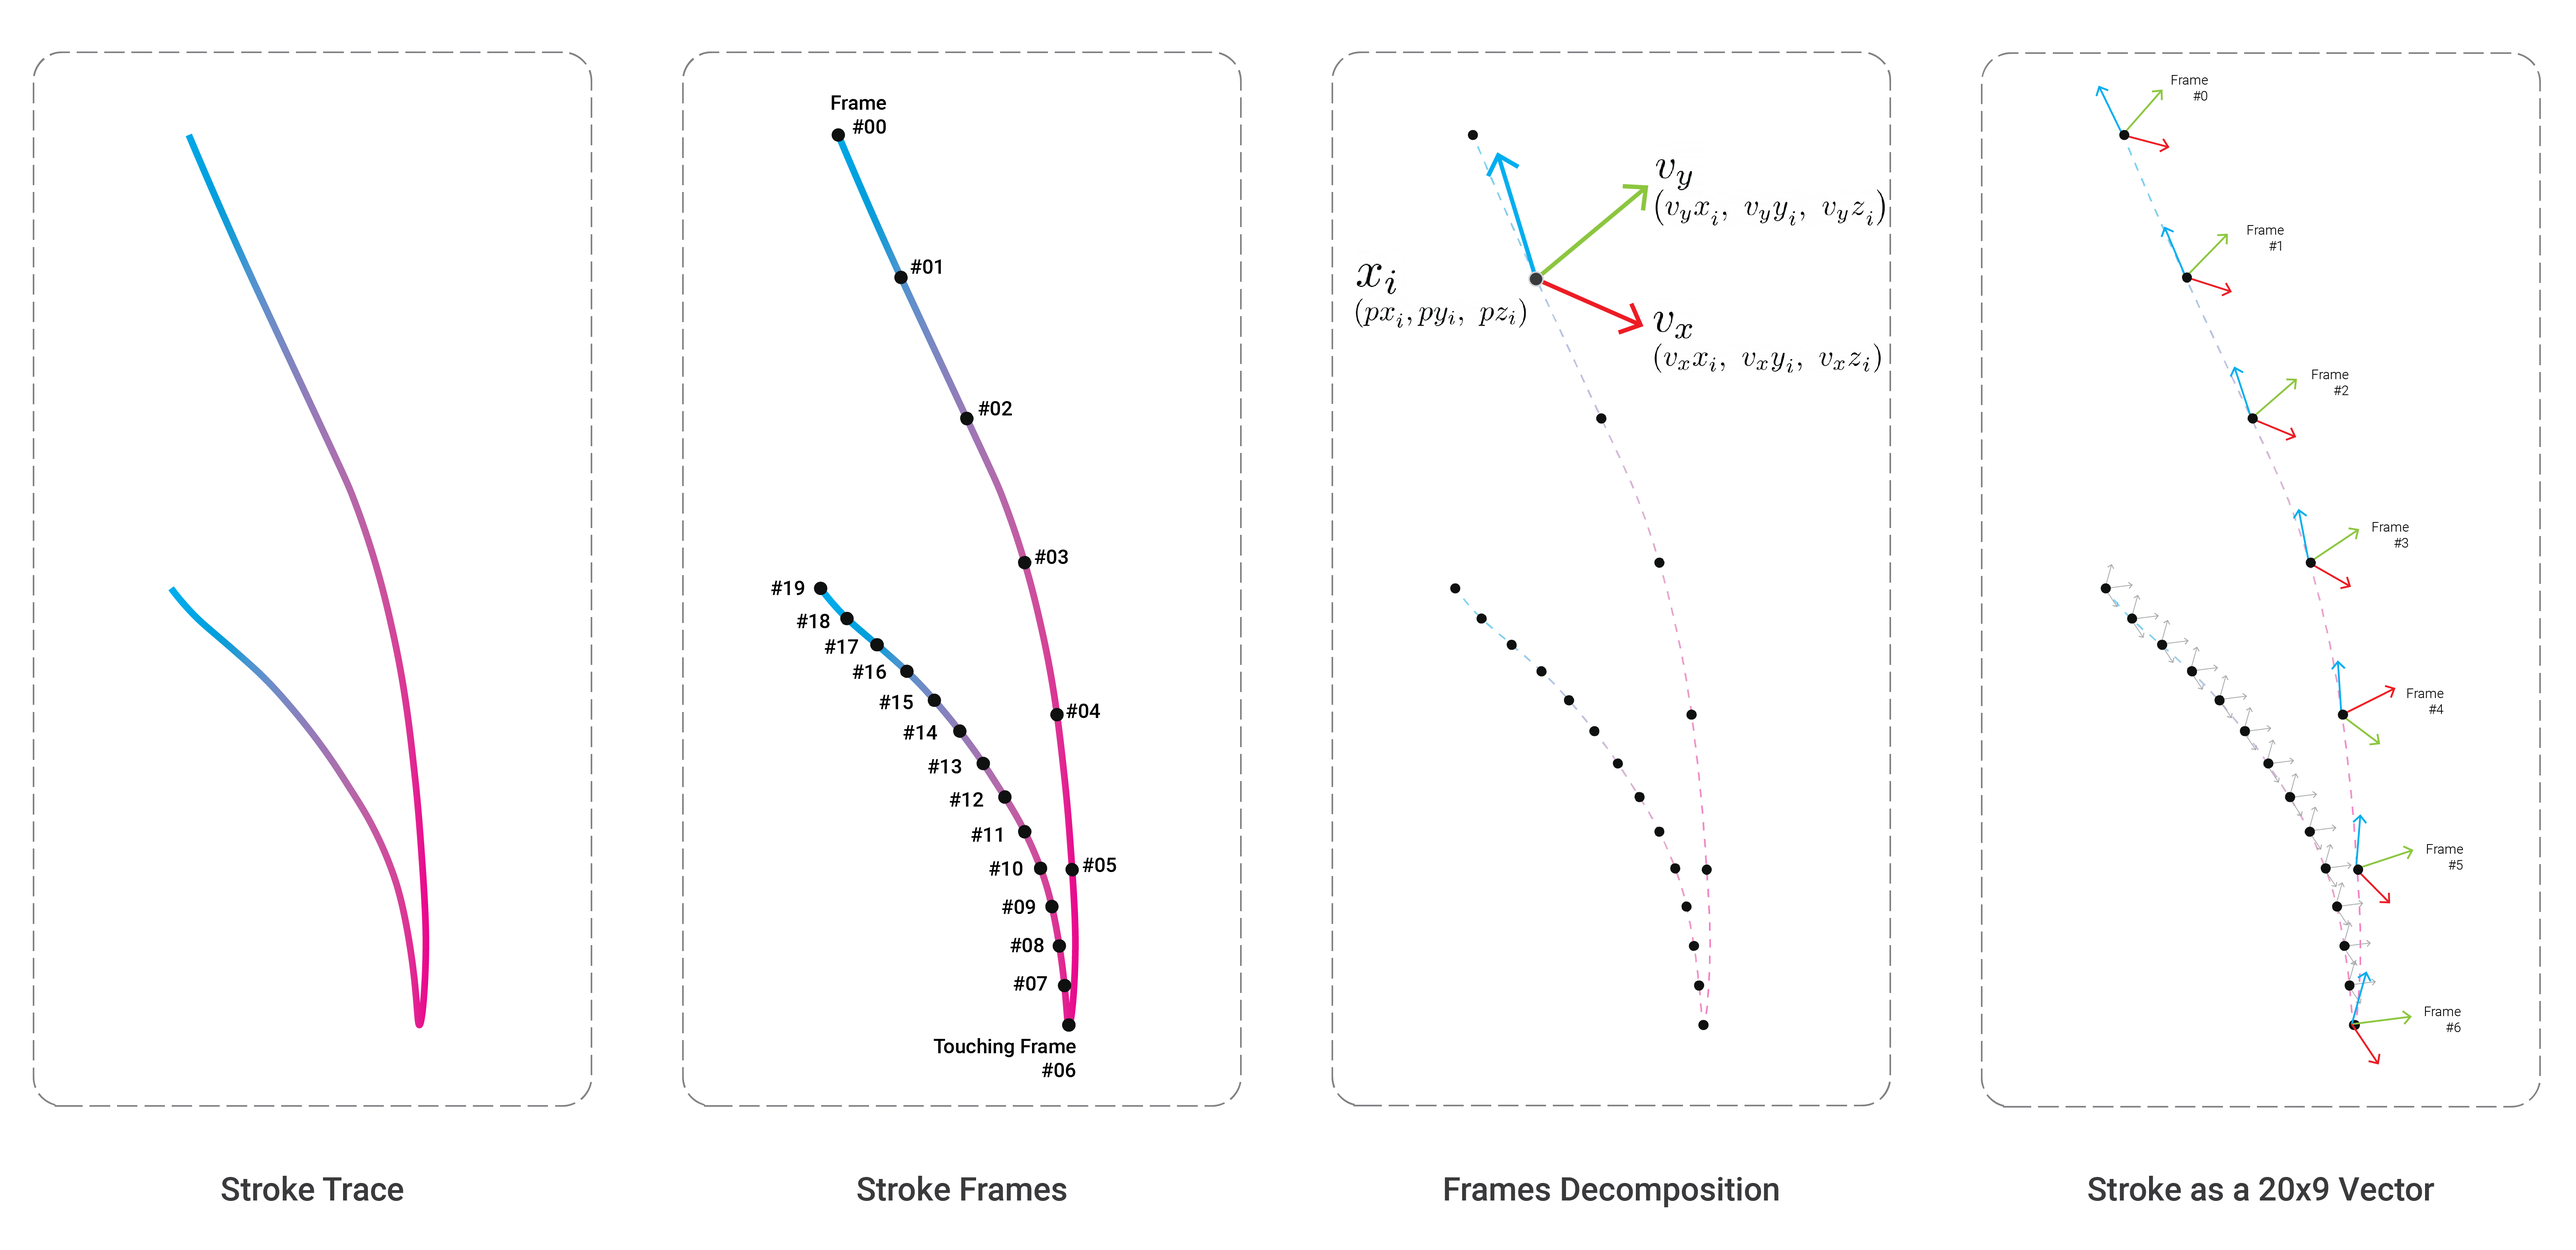
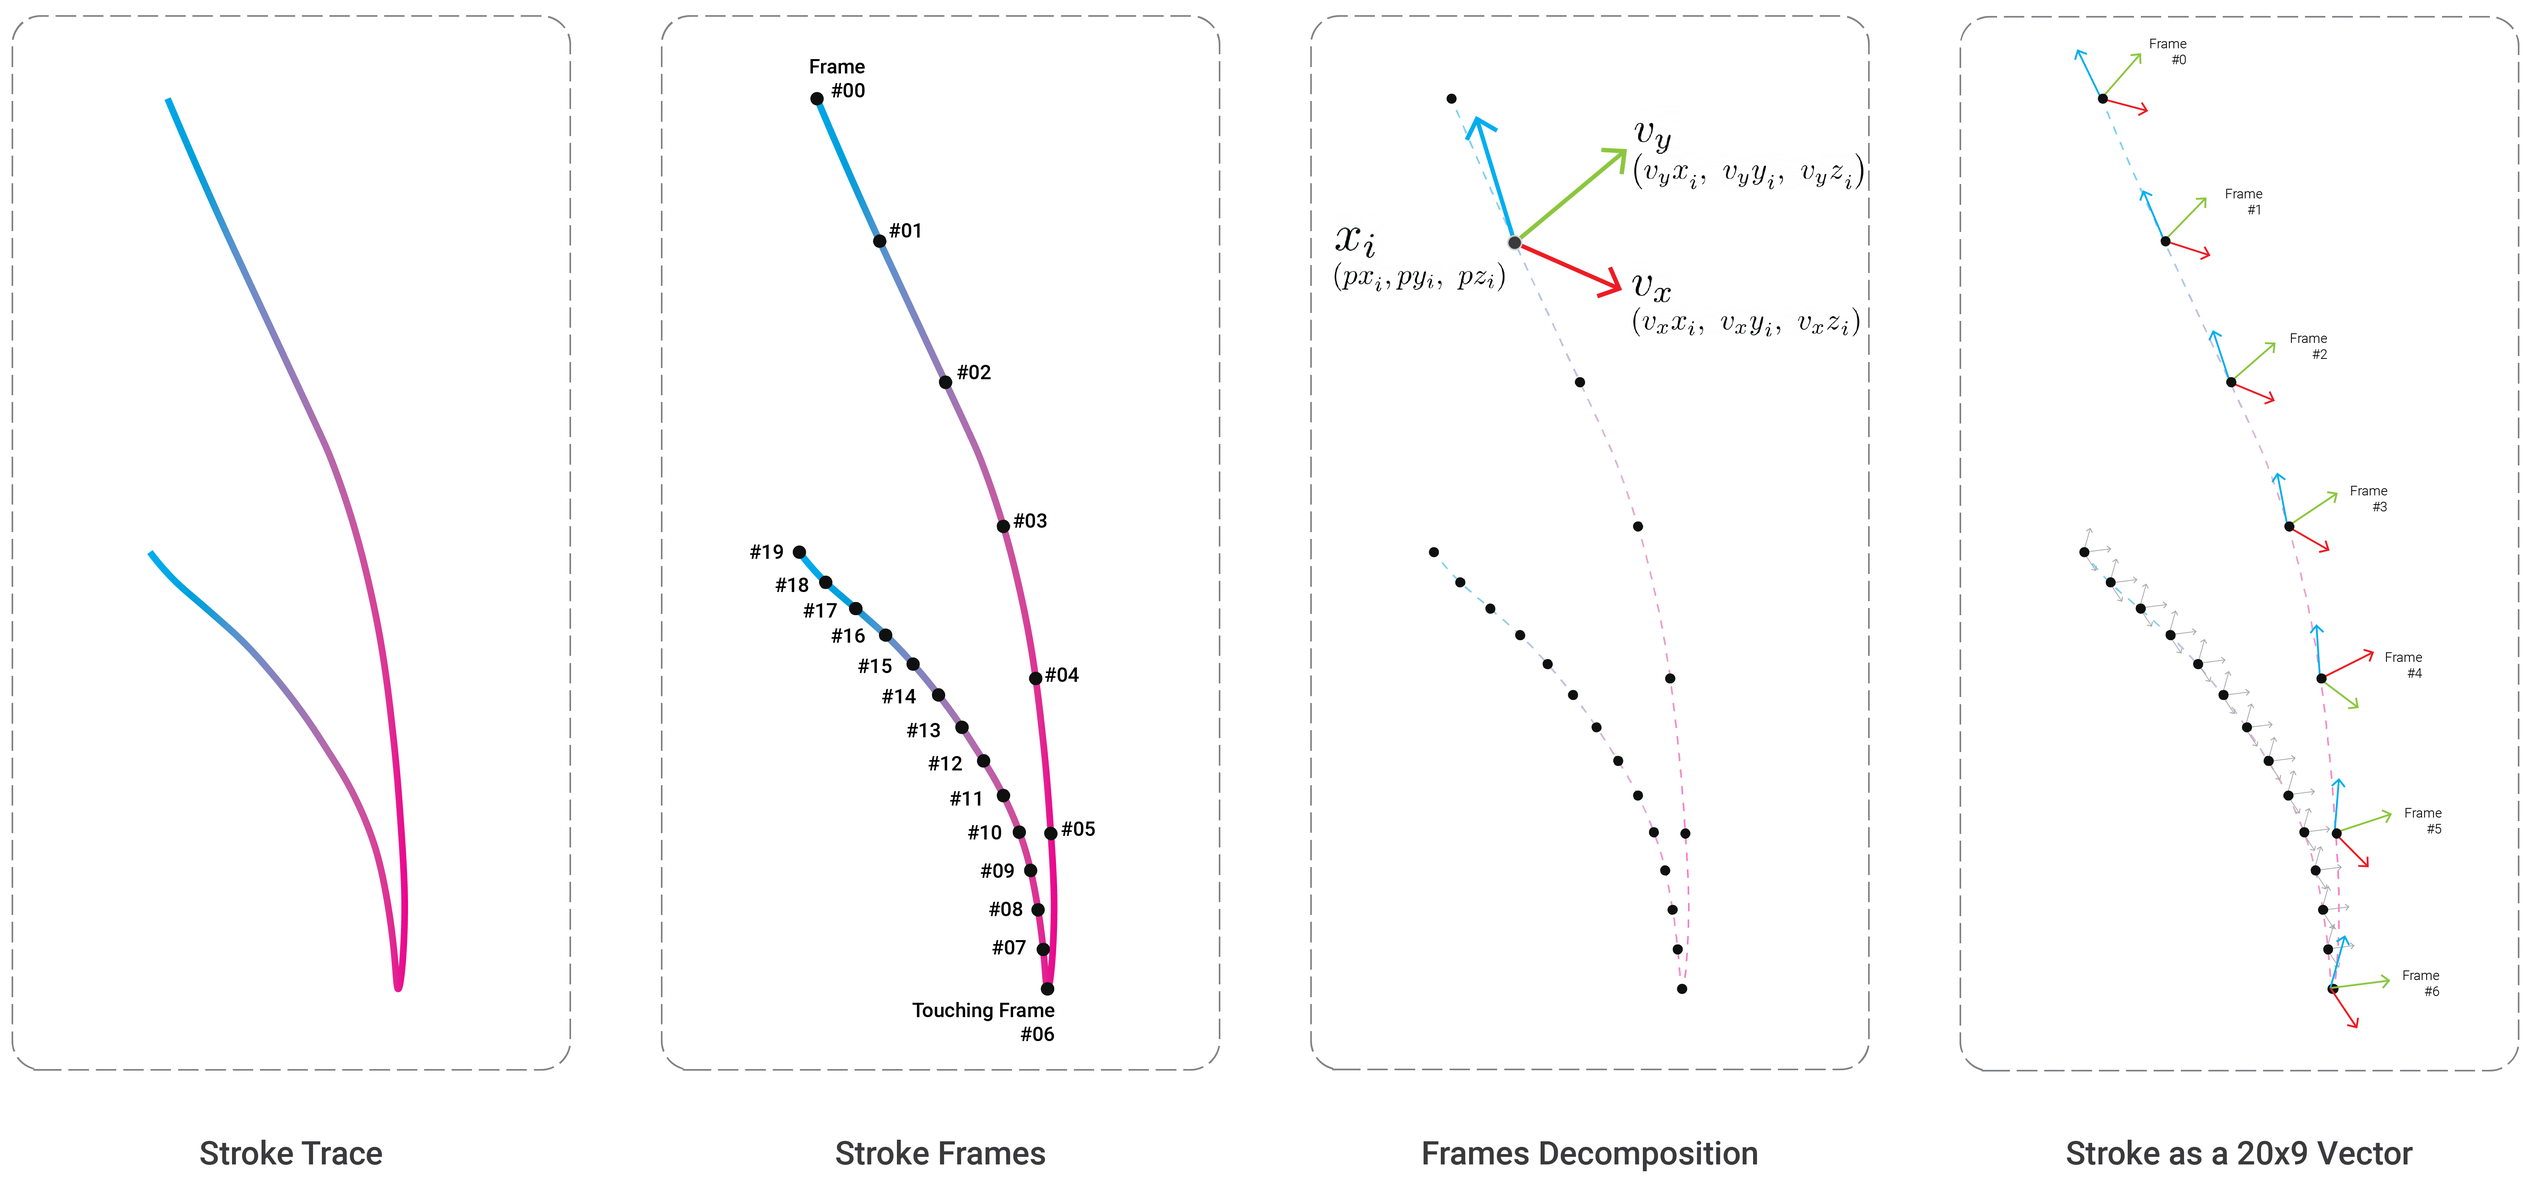
updated files with correct backgrounds

diff --git a/README.md b/README.md
@@ -37,13 +37,13 @@ I collaborated with a mucsician to create a robtic musical instrument based on t
 
 
 <p align="center">
-   <img src="./media/visualizations/72.png" width="600x" style="background-color:white;"/>
+   <img src="./media/visualizations/72.png" width="600x"/>
 </p>
 <p align="center">
-   <img src="./media/visualizations/74.png" width="600x" style="background-color:white;"/>
+   <img src="./media/visualizations/74.png" width="600x"/>
 </p>
 <p align="center">
-   <img src="./media/visualizations/75.png" width="800x" style="background-color:white;"/>
+   <img src="./media/visualizations/75.png" width="800x"/>
 </p>
 
 
